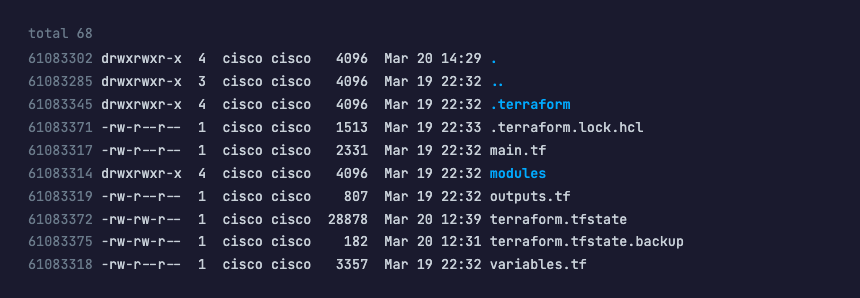
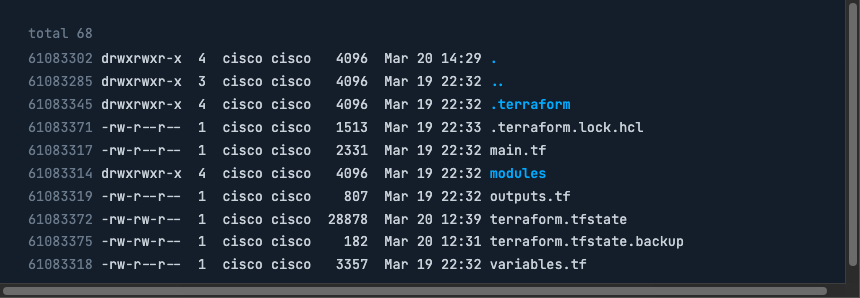
Fix task5-ls-output background color to match lab theme (#141e2b)

Changed region(s): [[0.0, 0.0, 1.0, 1.0]]

diff --git a/images/task5-ls-output.html b/images/task5-ls-output.html
@@ -10,14 +10,14 @@
   * { box-sizing: border-box; margin: 0; padding: 0; }
 
   body {
-    background: #1a1a2e;
+    background: #141e2b;
     margin: 0;
     padding: 0;
     font-family: 'JetBrains Mono', 'Courier New', monospace;
   }
 
   .terminal {
-    background: #1a1a2e;
+    background: #141e2b;
     width: 860px;
     padding: 22px 28px 22px 28px;
     font-size: 13.5px;
